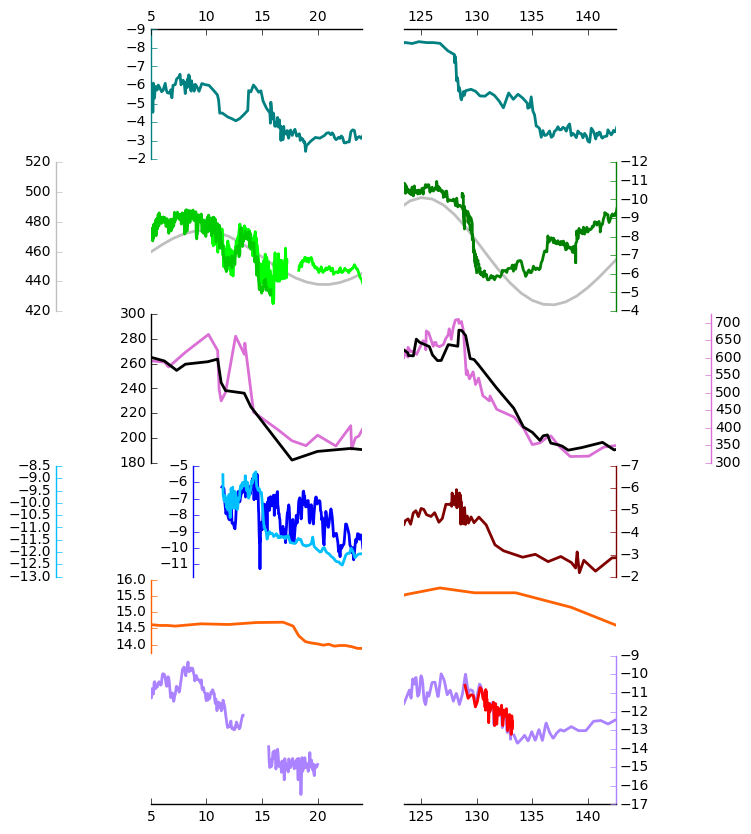
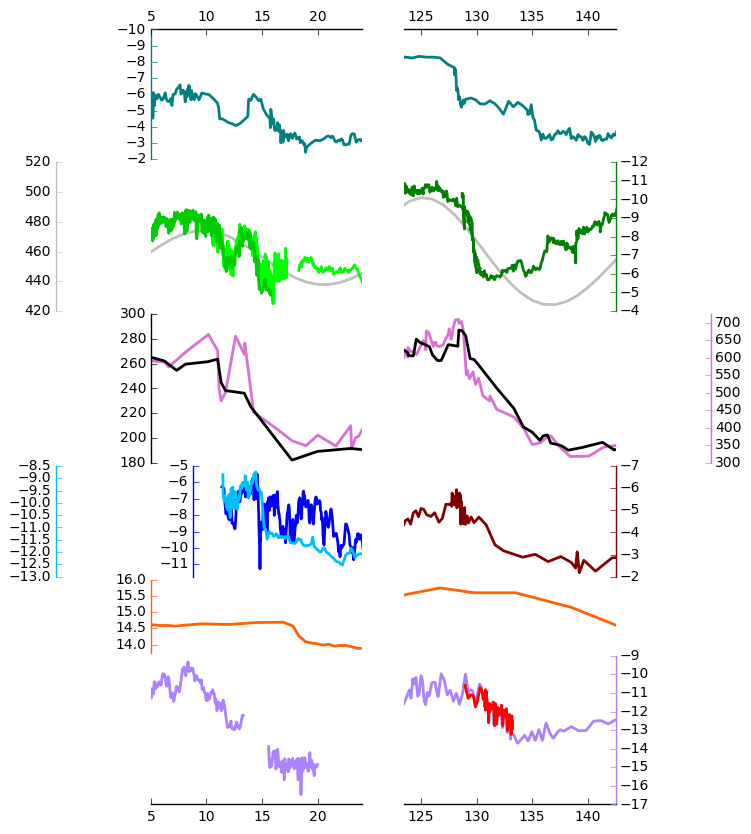
Revision

Changed region(s): [[0.1531, 0.0312, 0.49, 0.1871], [0.5513, 0.0312, 0.8269, 0.1871]]

diff --git a/trendvis.html b/trendvis.html
@@ -74,7 +74,8 @@
                             <h2 style="text-align: left;">Initialize</h2>
                                 <pre><code data-trim contenteditable class='ruby'>
 import trendvis
-tvfig = trendvis.XGrid([7, 8, 8, 6, 4, 8], xratios=[1, 1],
+tvfig = trendvis.XGrid([7, 8, 8, 6, 4, 8],
+                       xratios=[1, 1],
                        figsize=(6, 10))
                                 </code></pre>
                             </div>
@@ -113,24 +114,19 @@ tvfig.cleanup_grid()
 
 				<!-- Make twins stack-->
 				<section>
-					<section>
-						<div class="columns">
-							<div class="left">
-								<h2>Twin rows</h2>
-								<pre><code data-trim contenteditable class='ruby'>
+					<div class="columns">
+						<div class="left">
+							<h2>Twin rows</h2>
+							<pre><code data-trim contenteditable class='ruby'>
 tvfig.make_twins([1, 2, 3, 3])
 tvfig.cleanup_grid()
-								</code></pre>
-							</div>
-
-							<div class="right">
-								<img src="img/addtwins.png">
-							</div>
+							</code></pre>
 						</div>
-					</section>
 
-					<section>
-					</section>
+						<div class="right">
+							<img src="img/addtwins.png">
+						</div>
+					</div>
 				</section>
 
 
@@ -195,11 +191,12 @@ tvfig.set_xlim([(0, 5, 24), (1, 123.5, 142.5)])
 						<div class="columns">
 							<div class="left">
 								<pre><code data-trim contenteditable class='ruby'>
-tvfig.set_ylim([(3, -7, -2), (4, 13.75, 16),
+tvfig.set_ylim([(0, -2, -10), (3, -2, -7),
+                (4, 13.75, 16),
                 (5, -17, -9), (6, 420, 520),
                 (7, 300, 725), (8, -11.75, -5)])
 
-tvfig.reverse_yaxis([0, 1, 3])
+tvfig.reverse_yaxis([1])
 								</code></pre>
 							</div>
 
@@ -276,8 +273,9 @@ tvfig.set_all_ticknums([(5, 2.5), (5, 2.5)],
                         (40, 20), (100, 25),
                         (2, 1), (2, 1)])
 
-tvfig.set_ticks(major_dim=(7,3),minor_dim=(4,2),
-                labelsize=11, pad=6)
+tvfig.set_ticks(
+    major_dim=(7, 3), minor_dim=(4, 2),
+    labelsize=11, pad=6)
 
 tvfig.set_spinewidth(2)
 								</code></pre>
@@ -303,13 +301,14 @@ vsmow = ' ' + ur'$\u2030$' + ' (VSMOW)'
 tvfig.fig.suptitle('Age (kyr BP)', y=0.065,
                    fontsize=16)
 
-tvfig.set_ylabels([d18o + vpdb, d18o + vpdb,
-                   co2label + ' (ppmv)',
-                   d18o + vpdb, d18o + vsmow,
-                   d18o + vpdb, r'$W/m^{2}$',
-                   ch4label + ' (ppmv)', '',
-                   d18o + vpdb, d13c + vpdb],
-                  fontsize=13)
+tvfig.set_ylabels(
+    [d18o + vpdb, d18o + vpdb,
+     co2label + ' (ppmv)',
+     d18o + vpdb, d18o + vsmow,
+     d18o + vpdb, r'$W/m^{2}$',
+     ch4label + ' (ppmv)', '',
+     d18o + vpdb, d13c + vpdb],
+    fontsize=13)
 								</code></pre>
 							</div>
 
@@ -446,7 +445,7 @@ tvfig.fig.axes[1].text(
 				history: true,
 				center: true,
 				slideNumber: true,
-				transition: 'slide', // none/fade/slide/convex/concave/zoom
+				transition: 'fade', // none/fade/slide/convex/concave/zoom
 
 				// Optional reveal.js plugins
 				dependencies: [
